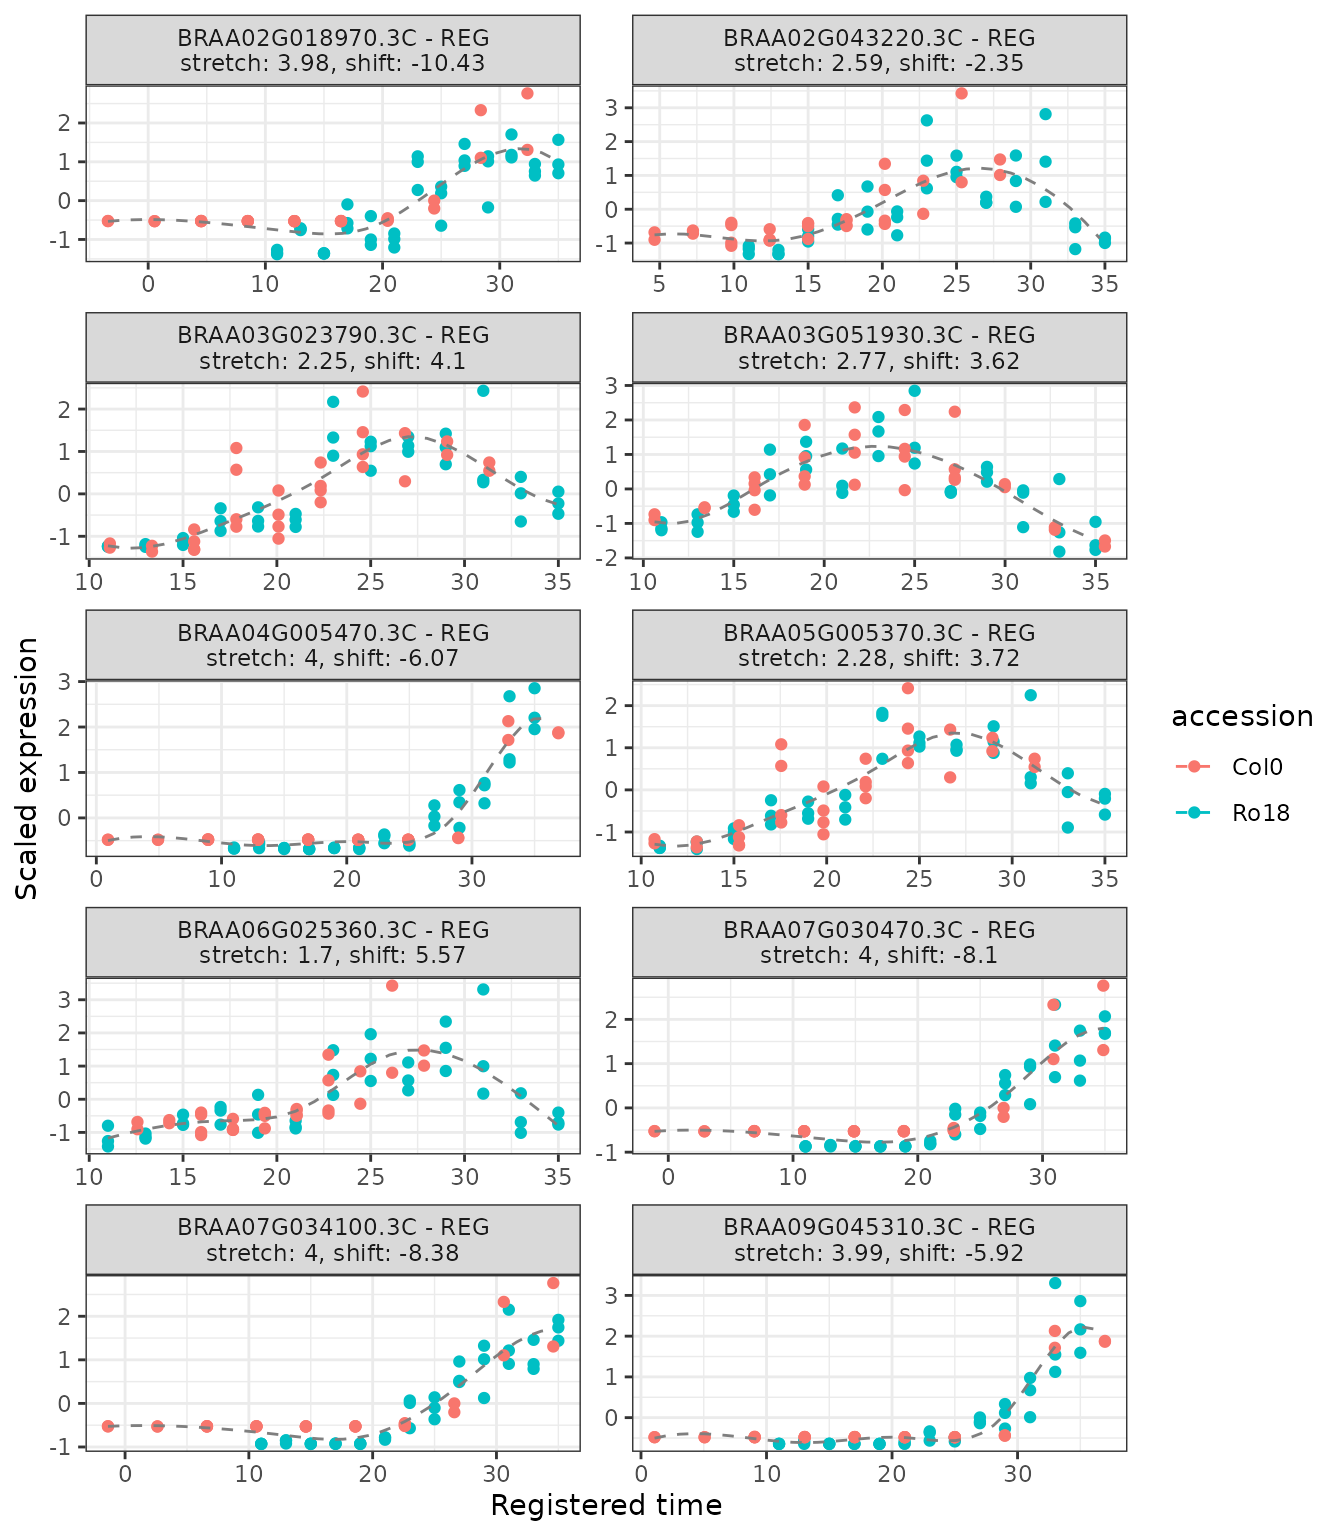
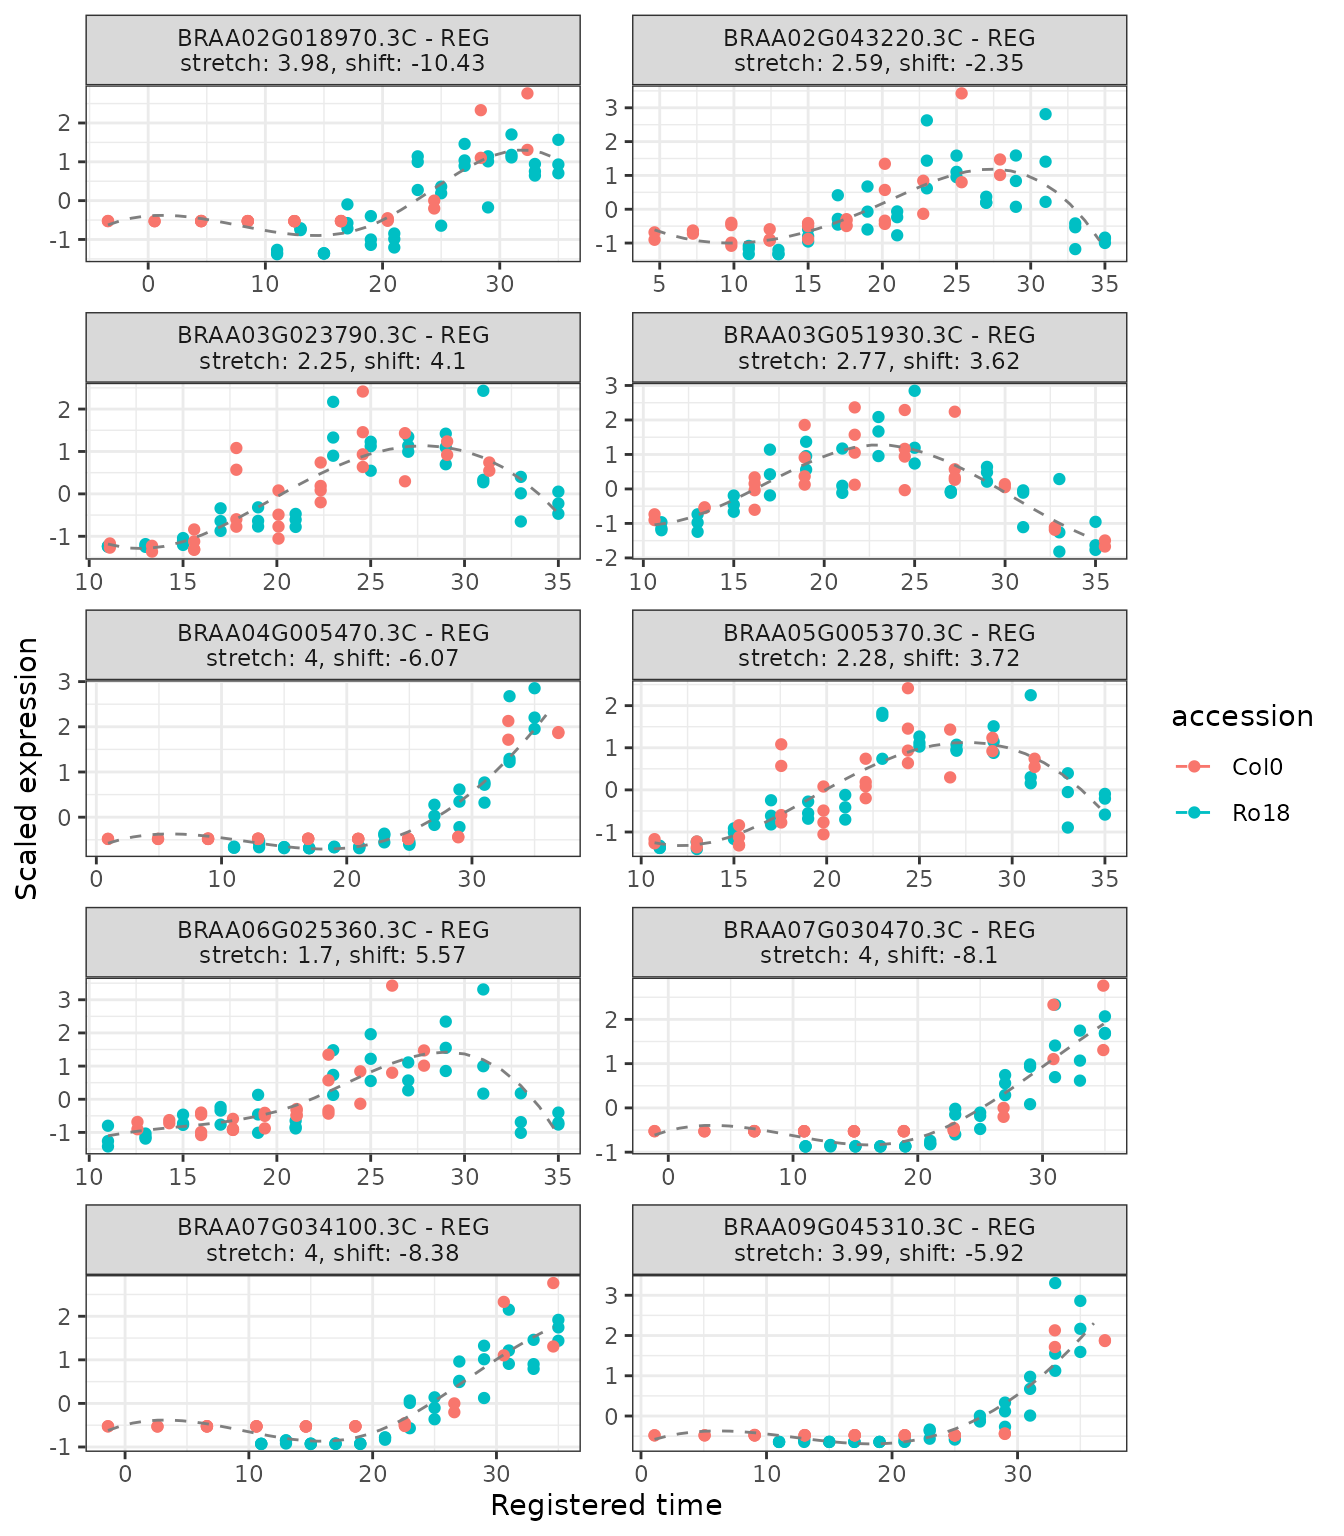
Deploying to gh-pages from @ ruthkr/greatR@7bd43f0224be76d0801e02458c77d26c58750f9b 🚀

diff --git a/reference/register.html b/reference/register.html
@@ -74,7 +74,8 @@ wishes to compare.</p>
 <span>  <span class="va">query</span>,</span>
 <span>  overlapping_percent <span class="op">=</span> <span class="fl">0.5</span>,</span>
 <span>  optimise_registration_parameters <span class="op">=</span> <span class="cn">TRUE</span>,</span>
-<span>  optimisation_config <span class="op">=</span> <span class="fu"><a href="https://rdrr.io/r/base/list.html" class="external-link">list</a></span><span class="op">(</span>num_iterations <span class="op">=</span> <span class="fl">60</span><span class="op">)</span></span>
+<span>  optimisation_method <span class="op">=</span> <span class="fu"><a href="https://rdrr.io/r/base/c.html" class="external-link">c</a></span><span class="op">(</span><span class="st">"sa"</span>, <span class="st">"nm"</span><span class="op">)</span>,</span>
+<span>  optimisation_config <span class="op">=</span> <span class="cn">NULL</span></span>
 <span><span class="op">)</span></span></code></pre></div>
     </div>
 
@@ -108,8 +109,12 @@ wishes to compare.</p>
 <dd><p>Whether to optimise registration parameters with Simulated Annealing. By default, <code>FALSE</code>.</p></dd>
 
 
+<dt>optimisation_method</dt>
+<dd><p>Optimisation method to use. Either <code>"sa"</code> for Simulated Annealing or <code>"nm"</code> for Nelder-Mead.</p></dd>
+
+
 <dt>optimisation_config</dt>
-<dd><p>List with optional arguments to modify the Simulated Annealing optimisation.</p></dd>
+<dd><p>Optional list with arguments to override the default optimisation configuration.</p></dd>
 
 </dl></div>
     <div class="section level2">

diff --git a/articles/register-data-manually.html b/articles/register-data-manually.html
@@ -175,8 +175,8 @@ from the registration result.</p>
 </tr></thead>
 <tbody><tr class="odd">
 <td align="left">BRAA03G023790.3C</td>
-<td align="right">67.93601</td>
-<td align="right">54.294</td>
+<td align="right">52.95771</td>
+<td align="right">46.42712</td>
 <td align="right">2.6</td>
 <td align="right">4</td>
 <td align="left">TRUE</td>
